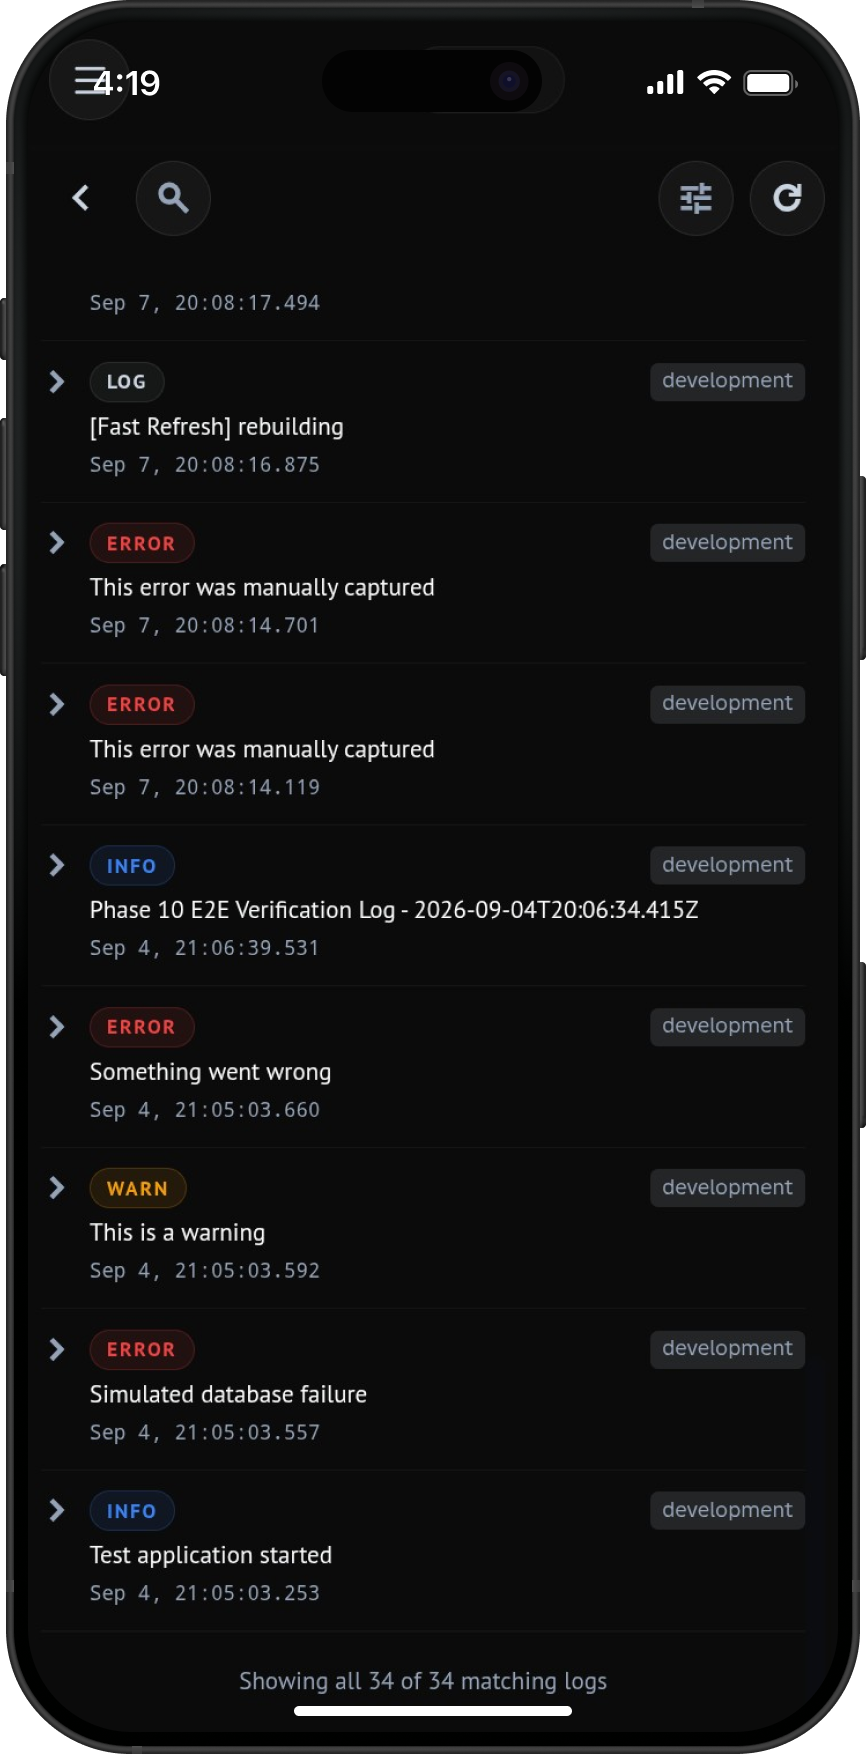
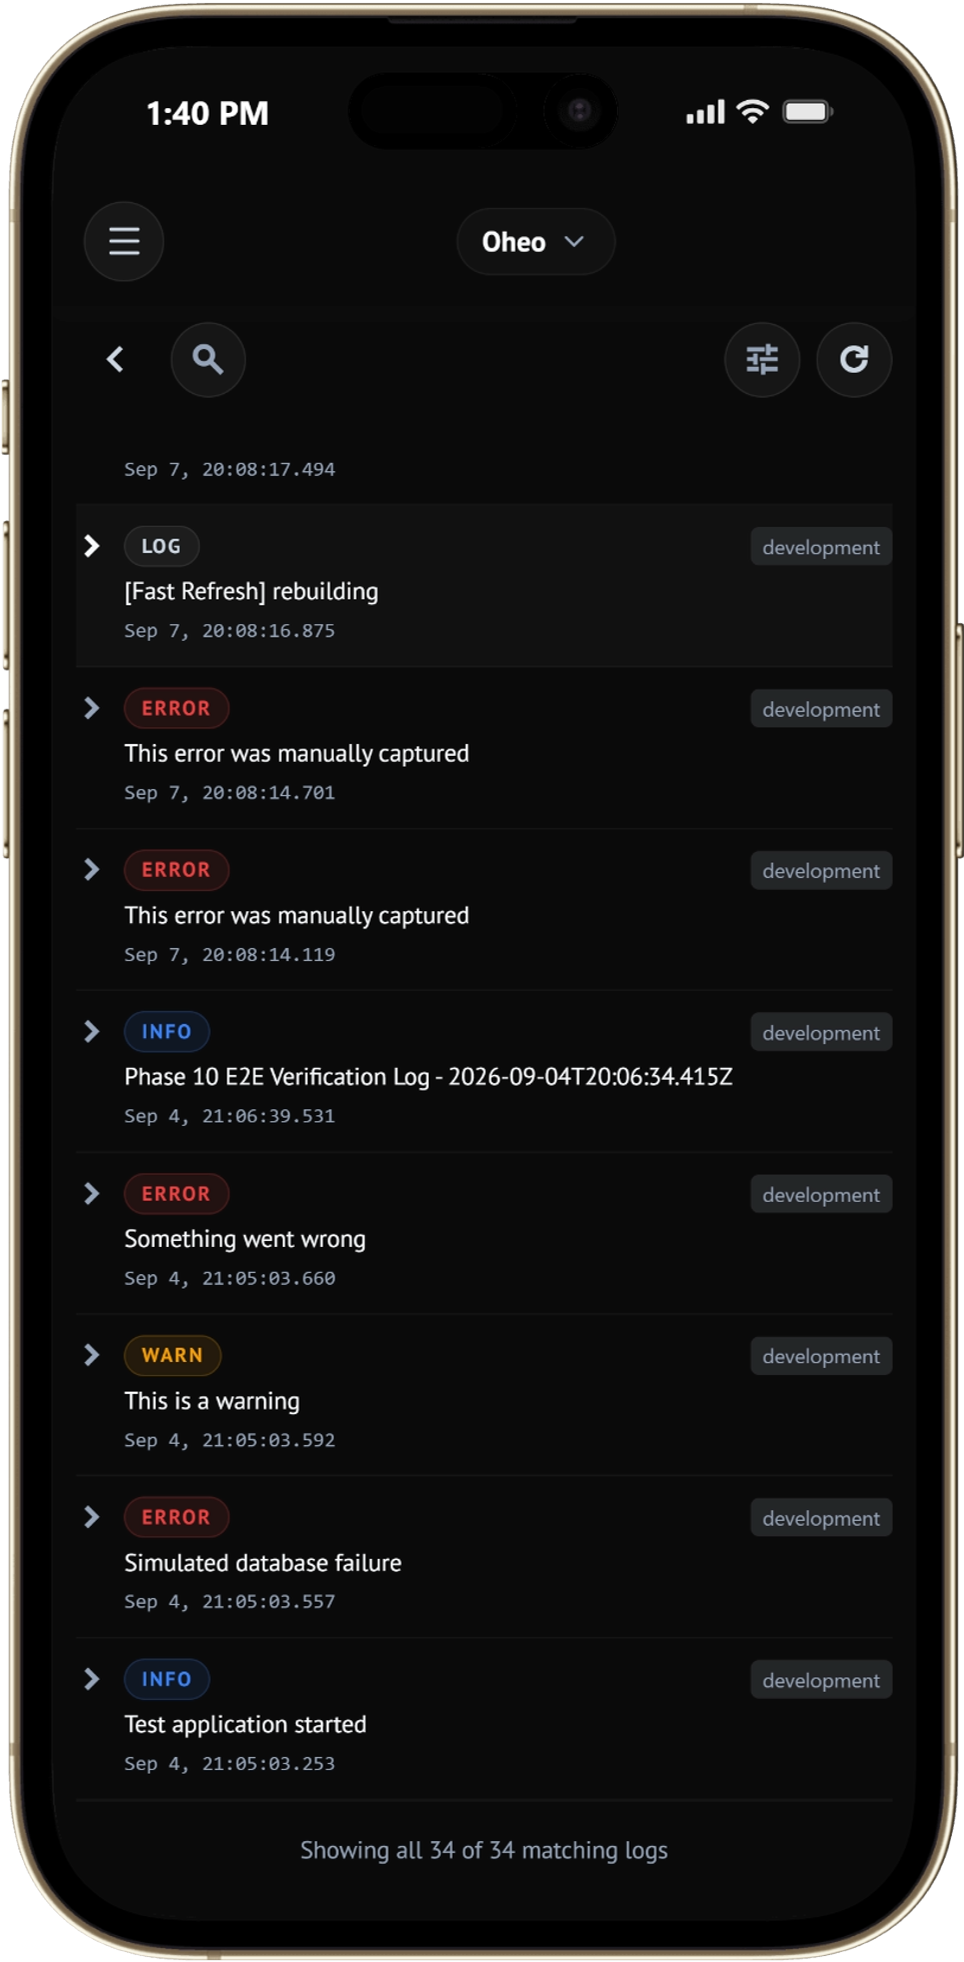
fixes

diff --git a/components/Navbar.tsx b/components/Navbar.tsx
@@ -42,7 +42,7 @@ export default function Navbar() {
         </Link>
 
         {/* Desktop nav links */}
-        <div className="hidden gap-8 text-sm font-medium text-text-secondary md:flex">
+        <div className="hidden gap-8 text-sm font-medium text-text-secondary lg:flex">
           {navLinks.map((link) => (
             <Link
               key={link.label}
@@ -56,7 +56,7 @@ export default function Navbar() {
         </div>
 
         {/* Desktop actions */}
-        <div className="hidden items-center gap-3 md:flex">
+        <div className="hidden items-center gap-3 lg:flex">
           <ThemeToggle />
 
           {!isPending && (
@@ -106,7 +106,7 @@ export default function Navbar() {
           aria-expanded={open}
           aria-controls="mobile-navigation-menu"
           aria-label={open ? "Close navigation menu" : "Open navigation menu"}
-          className="flex h-9 w-9 items-center justify-center rounded-full border border-border bg-glass transition hover:bg-glass-hover focus-visible:outline-none focus-visible:ring-2 focus-visible:ring-primary focus-visible:ring-offset-2 md:hidden"
+          className="flex h-9 w-9 items-center justify-center rounded-full border border-border bg-glass transition hover:bg-glass-hover focus-visible:outline-none focus-visible:ring-2 focus-visible:ring-primary focus-visible:ring-offset-2 lg:hidden"
         >
           {open ? <X size={18} aria-hidden="true" /> : <Menu size={18} aria-hidden="true" />}
         </motion.button>
@@ -121,7 +121,7 @@ export default function Navbar() {
             animate={{ opacity: 1, y: 0, scale: 1 }}
             exit={{ opacity: 0, y: -10, scale: 0.95 }}
             transition={{ duration: 0.25, ease: "easeOut" }}
-            className="mx-auto mt-3 max-w-7xl overflow-hidden rounded-3xl border border-border bg-glass px-6 py-6 backdrop-blur-3xl shadow-lg md:hidden"
+            className="mx-auto mt-3 max-w-7xl overflow-hidden rounded-3xl border border-border bg-glass px-6 py-6 backdrop-blur-3xl shadow-lg lg:hidden"
           >
             {/* Nav links */}
             <div className="flex flex-col gap-1">

diff --git a/components/Hero.tsx b/components/Hero.tsx
@@ -45,17 +45,17 @@ export default function Hero() {
   };
 
   return (
-    <section className="mx-auto flex min-h-[85vh] max-w-8xl flex-col items-center justify-center gap-12 px-4 py-16 pt-24 lg:flex-row lg:gap-20 overflow-hidden">
+    <section className="mx-auto flex min-h-[85vh] flex-col items-center justify-center gap-12 px-2 py-16 pt-44 sm:pt-40 lg:pt-24 lg:flex-row lg:gap-12 xl:gap-40 overflow-hidden">
       {/* Left */}
       <motion.div
         variants={containerVariants}
         initial="hidden"
         animate="show"
-        className="max-w-3xl text-center lg:text-left"
+        className="text-center lg:text-left"
       >
         <motion.h1
           variants={itemVariants}
-          className="mt-4 text-5xl font-hero font-black leading-tight tracking-tight text-text sm:text-5xl lg:text-7xl"
+          className="mt-4 text-4xl sm:text-5xl md:text-6xl lg:text-6xl xl:text-7xl font-hero font-black leading-tight tracking-tight text-text"
         >
           <span className="font-normal">Monitor</span>
           <span className="font-bold"> every</span>
@@ -119,7 +119,7 @@ export default function Hero() {
           }}
           transition={{ type: "spring", stiffness: 200, damping: 20 }}
           style={{ transformStyle: "preserve-3d" }}
-          className="relative max-w-[260px] sm:max-w-[320px] drop-shadow-[0_25px_35px_rgba(0,0,0,0.3)]"
+          className="relative max-w-[260px] sm:max-w-[320px] lg:max-w-[280px] xl:max-w-[320px] drop-shadow-[0_25px_35px_rgba(0,0,0,0.3)]"
         >
           <Image
             src="/dcim/phone.png"

diff --git a/components/InstallPrompt.tsx b/components/InstallPrompt.tsx
@@ -106,9 +106,6 @@ export function InstallPrompt() {
             <div>
               <h4 className="font-semibold text-sm text-slate-100 flex items-center gap-1.5">
                 Install Logged
-                <span className="bg-blue-500/20 text-blue-400 text-[10px] uppercase font-bold px-1.5 py-0.5 rounded-full border border-blue-500/30">
-                  PWA
-                </span>
               </h4>
               <p className="text-xs text-slate-400 mt-0.5 line-clamp-1">
                 Install for quick access, offline mode & real-time monitoring.
@@ -119,7 +116,7 @@ export function InstallPrompt() {
           <div className="flex items-center gap-2 flex-shrink-0">
             <button
               onClick={handleInstallClick}
-              className="flex items-center gap-1.5 bg-blue-600 hover:bg-blue-500 text-white text-xs font-medium px-3.5 py-2 rounded-xl transition-all shadow-md shadow-blue-500/20 active:scale-95 cursor-pointer"
+              className="flex items-center gap-1.5 bg-primary hover:bg-primary/50 text-white text-xs font-medium px-3.5 py-2 rounded-xl transition-all shadow-md shadow-blue-500/20 active:scale-95 cursor-pointer"
             >
               <Download className="w-3.5 h-3.5" />
               Install

diff --git a/app/manifest.ts b/app/manifest.ts
@@ -10,7 +10,7 @@ export default function manifest(): MetadataRoute.Manifest {
     display: "standalone",
     orientation: "any",
     background_color: "#090d16",
-    theme_color: "#3b82f6",
+    theme_color: "#0B0B0B",
     scope: "/",
     icons: [
       {

diff --git a/next.config.ts b/next.config.ts
@@ -2,7 +2,7 @@ import type { NextConfig } from "next";
 
 const nextConfig: NextConfig = {
   /* config options here */
- // devIndicators: false
+  devIndicators: false
 };
 
 export default nextConfig;

diff --git a/app/globals.css b/app/globals.css
@@ -5,6 +5,11 @@
 
 @custom-variant dark (&:where(.dark, .dark *));
 
+@theme {
+  --breakpoint-laptop: 1100px;
+}
+
+
 :root {
   /* Primary */
   --primary: #727D8F;
